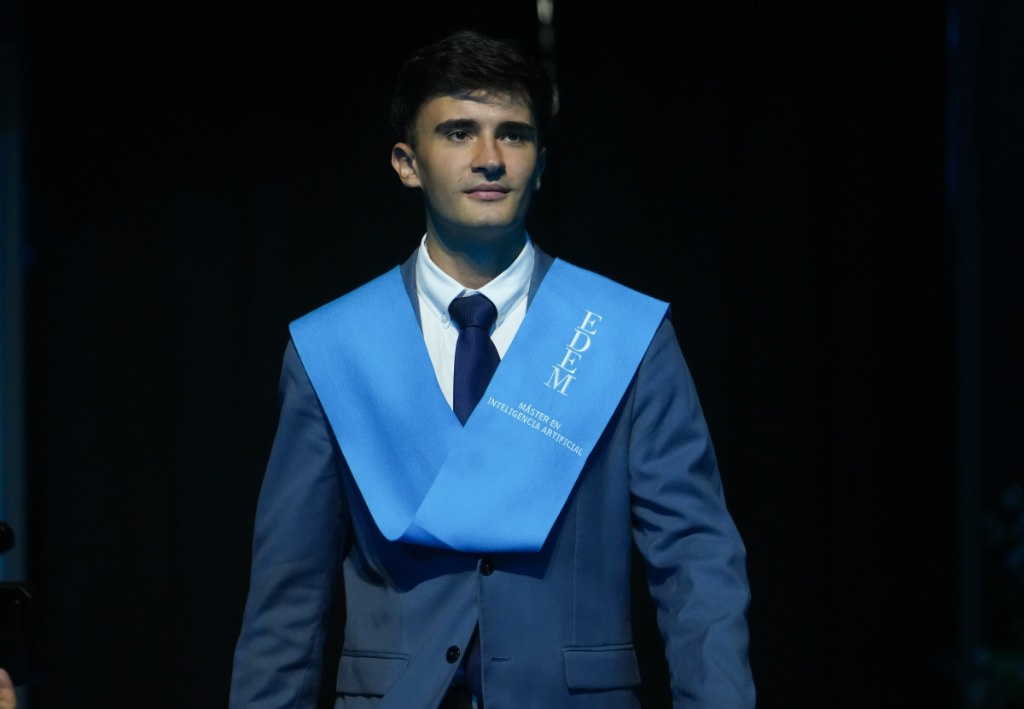
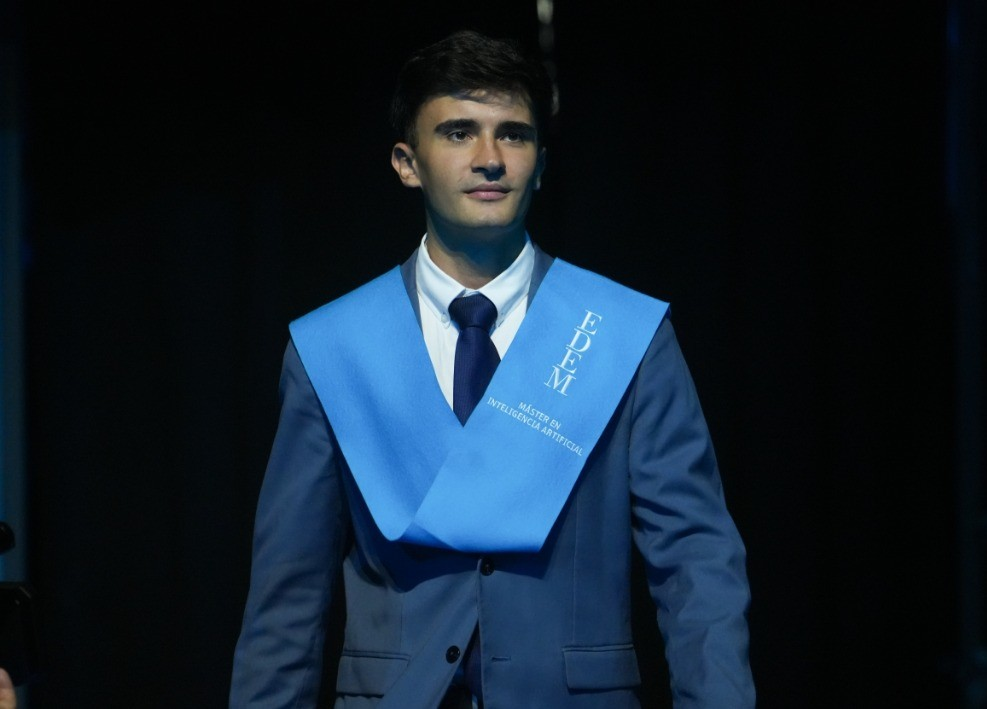
mas guapo

diff --git a/src/styles.css b/src/styles.css
@@ -194,12 +194,12 @@ body {
   width: 100%;
 }
 
-/* Perfil & Avatar de Gran Impacto (Formato Rectangular Editorial) */
+/* Perfil & Avatar de Gran Impacto (Formato Rectángulo Apaisado / Horizontal) */
 .avatar-wrapper {
   position: relative;
-  width: 240px;
-  height: 290px;
-  margin-bottom: 1.75rem;
+  width: 100%;
+  max-width: 440px;
+  margin-bottom: 2rem;
   display: flex;
   align-items: center;
   justify-content: center;
@@ -208,71 +208,72 @@ body {
 
 .avatar-halo-glow {
   position: absolute;
-  inset: -12px;
-  border-radius: 28px;
+  inset: -8px;
+  border-radius: 24px;
   background: conic-gradient(from 0deg, #6366f1, #38bdf8, #ec4899, #818cf8, #6366f1);
-  filter: blur(28px);
-  opacity: 0.32;
-  animation: ringShine 18s linear infinite;
+  filter: blur(22px);
+  opacity: 0.22;
+  animation: ringShine 22s linear infinite;
 }
 
 .avatar-ring-frame {
   position: absolute;
-  inset: -2px;
-  border-radius: 26px;
-  padding: 2px;
-  background: linear-gradient(145deg, rgba(255, 255, 255, 0.95), rgba(99, 102, 241, 0.4), rgba(56, 189, 248, 0.35));
-  box-shadow: 0 16px 36px -8px rgba(99, 102, 241, 0.22);
+  inset: -1px;
+  border-radius: 22px;
+  padding: 1px;
+  background: linear-gradient(135deg, rgba(255, 255, 255, 0.95), rgba(99, 102, 241, 0.25), rgba(56, 189, 248, 0.2));
+  box-shadow: 0 14px 32px -8px rgba(99, 102, 241, 0.16);
   z-index: 1;
 }
 
 .avatar-image-container {
   position: relative;
   width: 100%;
-  height: 100%;
-  border-radius: 24px;
+  border-radius: 20px;
   overflow: hidden;
   z-index: 2;
   background: #ffffff;
+  display: flex;
+  align-items: center;
+  justify-content: center;
 }
 
 .avatar-image {
   position: relative;
   width: 100%;
-  height: 100%;
-  border-radius: 24px;
-  object-fit: cover;
-  object-position: center 20%;
+  height: auto;
+  max-height: 270px;
+  object-fit: contain;
   display: block;
   z-index: 1;
   transition: transform 0.6s cubic-bezier(0.16, 1, 0.3, 1);
 }
 
-/* Efecto de difuminado suave y armónico con el fondo */
+/* Efecto de suavizado sutil y delicado con el fondo */
 .avatar-soft-overlay {
   position: absolute;
   inset: 0;
-  border-radius: 24px;
+  border-radius: 20px;
   pointer-events: none;
   z-index: 2;
-  box-shadow: inset 0 0 25px 8px rgba(248, 250, 252, 0.6);
+  box-shadow: inset 0 0 14px 2px rgba(248, 250, 252, 0.45);
   background: linear-gradient(
     180deg,
-    rgba(248, 250, 252, 0.12) 0%,
-    transparent 15%,
-    transparent 75%,
-    rgba(248, 250, 252, 0.55) 100%
+    rgba(248, 250, 252, 0.05) 0%,
+    transparent 12%,
+    transparent 88%,
+    rgba(248, 250, 252, 0.28) 100%
   );
 }
 
 .avatar-wrapper:hover .avatar-image {
-  transform: scale(1.035);
+  transform: scale(1.02);
 }
 
 .status-badge {
   position: absolute;
   bottom: -10px;
-  right: 14px;
+  right: 18px;
   display: flex;
   align-items: center;
   gap: 0.35rem;
@@ -514,20 +515,22 @@ body {
     padding: 1.5rem 1rem 3.5rem 1rem;
   }
   .avatar-wrapper {
-    width: 200px;
-    height: 245px;
+    max-width: 100%;
+    margin-bottom: 1.5rem;
+  }
+  .avatar-image {
+    max-height: 220px;
   }
   .avatar-halo-glow {
-    border-radius: 24px;
-    filter: blur(20px);
+    border-radius: 20px;
+    filter: blur(16px);
   }
   .avatar-ring-frame {
-    border-radius: 22px;
+    border-radius: 18px;
   }
   .avatar-image-container,
-  .avatar-image,
   .avatar-soft-overlay {
-    border-radius: 20px;
+    border-radius: 16px;
   }
   .profile-name {
     font-size: 1.5rem;

diff --git a/dist/index.html b/dist/index.html
@@ -7,9 +7,9 @@
     <link rel="preconnect" href="https://fonts.googleapis.com">
     <link rel="preconnect" href="https://fonts.gstatic.com" crossorigin>
     <link href="https://fonts.googleapis.com/css2?family=Plus+Jakarta+Sans:wght@300;400;500;600;700;800&display=swap" rel="stylesheet">
-    <script type="module" crossorigin src="./assets/index-CDf-Pi_o.js"></script>
+    <script type="module" crossorigin src="./assets/index-Bkol7Slq.js"></script>
     <link rel="modulepreload" crossorigin href="./assets/vendor-B5ZO-m6Q.js">
-    <link rel="stylesheet" crossorigin href="./assets/index-k_5BiYz4.css">
+    <link rel="stylesheet" crossorigin href="./assets/index-5dpe8koL.css">
   </head>
   <body>
     <div id="root"></div>
